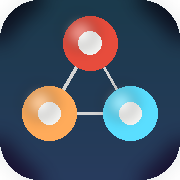
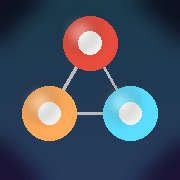
Add files via upload

diff --git a/service-worker.js b/service-worker.js
@@ -1,4 +1,4 @@
-const CACHE_NAME = 'element-master-3d-v1';
+const CACHE_NAME = 'element-master-3d-v2'; // アイコン画像を修正したためバージョンを上げてキャッシュを入れ替える
 const APP_SHELL = [
   './',
   './index.html',
@@ -7,6 +7,7 @@ const APP_SHELL = [
   './icons/icon-512.png',
   './icons/icon-512-maskable.png',
   './icons/apple-touch-icon.png',
+  './icons/favicon-32.png',
   'https://cdnjs.cloudflare.com/ajax/libs/three.js/r128/three.min.js'
 ];
 

diff --git a/README.md b/README.md
@@ -1,6 +1,6 @@
 # 化学モデル対戦 エレメントマスター3D（PWA版）
 
-このフォルダ一式をそのままWebサーバーにアップロードすると、スマートフォンの
+このフォルダ一式をそのままWebサーバーにアップロードすると、スマートフォン・タブレットの
 ホーム画面に「アプリ」として追加できるようになります（PWA = Progressive Web App）。
 
 ## 中身
@@ -9,42 +9,42 @@
 - `service-worker.js` … 一度読み込めばオフラインでも遊べるようにするキャッシュ処理
 - `icons/` … ホーム画面アイコン一式
 
+## 今回のアイコン不具合の修正について
+以前のバージョンではアイコン画像の四隅を透過にしていましたが、iOS/Androidは
+「四隅まで塗りつぶされた正方形」のアイコンを前提に、OS側で自動的に角丸マスクを
+かける仕組みになっています。透過だとOSによって角が黒く欠けたり、
+ホーム画面に反映されないことがあったため、すべてのアイコンを透過なしの
+フルサイズ正方形画像に作り直しました。
+
+## 既にホーム画面に追加していた場合の注意（重要）
+GitHub上のファイルを新しいものに差し替えても、
+- スマホ・タブレットのブラウザ／OSがアイコン画像やservice-workerを
+  キャッシュしている
+- 一度ホーム画面に追加したアイコンは、追加した時点の画像のまま固定される
+  （サーバー側の更新が自動反映されない）
+
+という理由で、**古いアイコンのままになることがあります**。
+更新後は以下の手順を行ってください。
+
+1. 既にホーム画面に追加してあるアイコンがあれば、一度削除する
+2. Safari／Chromeでこのサイトを開き直す（できればキャッシュを一度削除するか、
+   プライベート/シークレットタブで開いて確認する）
+3. 新しいアイコンが表示された状態を確認してから、改めて「ホーム画面に追加」する
+
 ## 注意：file:// で直接開くだけでは動きません
 `manifest.json` と `service-worker.js` はブラウザのセキュリティ上の理由で、
 `http://` または `https://` 経由（＝どこかにホスティングされた状態）でしか機能しません。
-ローカルの index.html をダブルクリックして開いた場合、ゲーム自体は遊べますが、
-「ホーム画面に追加」してアプリのように使うことはできません。
 
-## 手軽に試す方法（自分のPC上で）
-このフォルダの中で以下を実行し、
-```
-python3 -m http.server 8080
-```
-スマホとPCを同じWi-Fiに繋いだ状態で、スマホのブラウザから
-`http://（PCのIPアドレス）:8080/` にアクセスしてください。
-
-## 実際に公開する方法（おすすめ・無料）
-以下のような静的ホスティングサービスに、このフォルダをそのままアップロードするだけで公開できます。
-- Netlify（サイトの管理画面にフォルダをドラッグ＆ドロップするだけ）
-- Vercel
-- GitHub Pages
-- Cloudflare Pages
+## GitHub Pagesへのアップロード方法
+1. GitHubのリポジトリページで「Add file」→「Upload files」
+2. このフォルダの中身（index.html・manifest.json・service-worker.js・icons フォルダ）を
+   まとめてドラッグ＆ドロップ（既存ファイルは自動的に上書きされます）
+3. 「Commit changes」で確定
+4. 1〜2分待って公開ページを再読み込み
 
 ## ホーム画面への追加方法
-公開したURLにスマホのブラウザでアクセスした後、
-
-**iPhone（Safari）:**
+**iPhone / iPad（Safari）:**
 共有ボタン → 「ホーム画面に追加」
 
 **Android（Chrome）:**
 右上のメニュー（縦三点）→ 「アプリをインストール」または「ホーム画面に追加」
-
-これで、ホーム画面のアイコンをタップするとブラウザのアドレスバーなどが表示されない
-全画面のアプリのような見た目で起動します。
-
-## 今後さらに「本物のアプリ」に近づけたい場合
-App Store / Google Playに正式に公開したい場合は、このPWAをベースに
-Capacitor（https://capacitorjs.com/）などのツールで実機ビルド・署名・ストア申請を行う
-次のステップが必要です。これはXcode/Android StudioやApple/Googleの開発者アカウントが
-必要な作業のため、この環境の中だけでは完結できません。まずは上記の方法でPWAとして
-配布・体験してみて、必要であれば次のステップとして検討してください。
